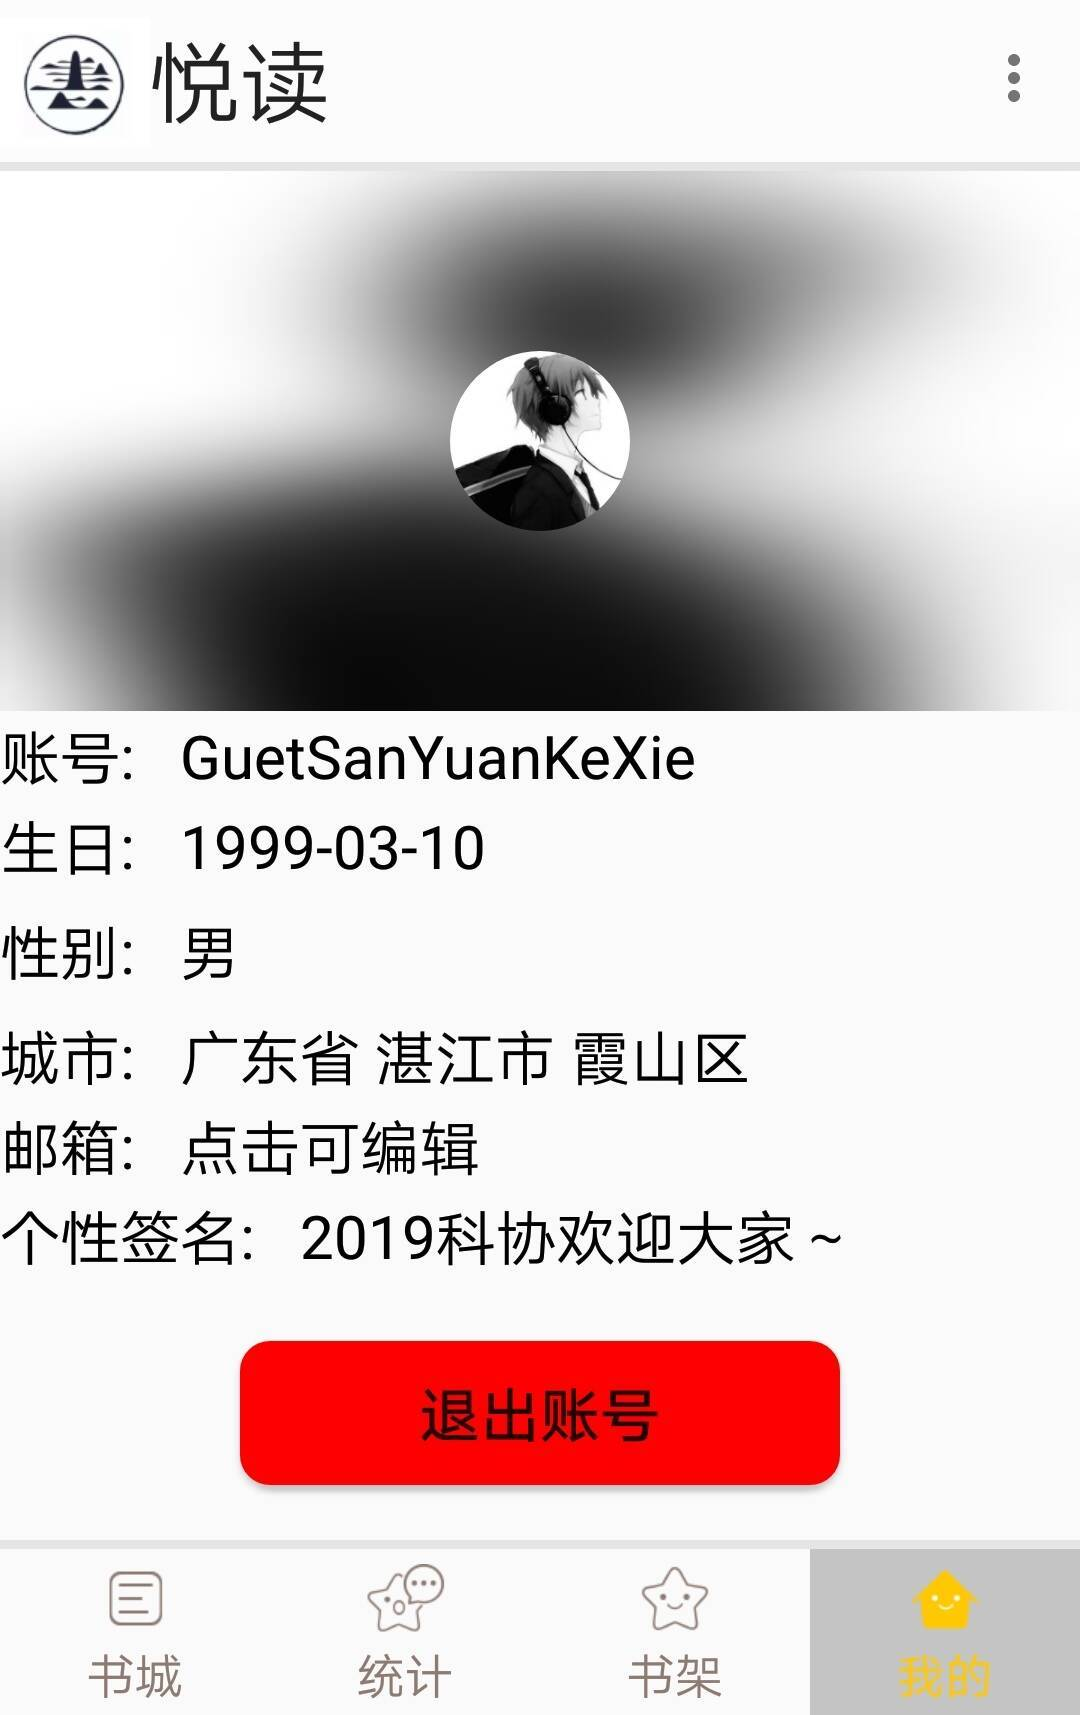
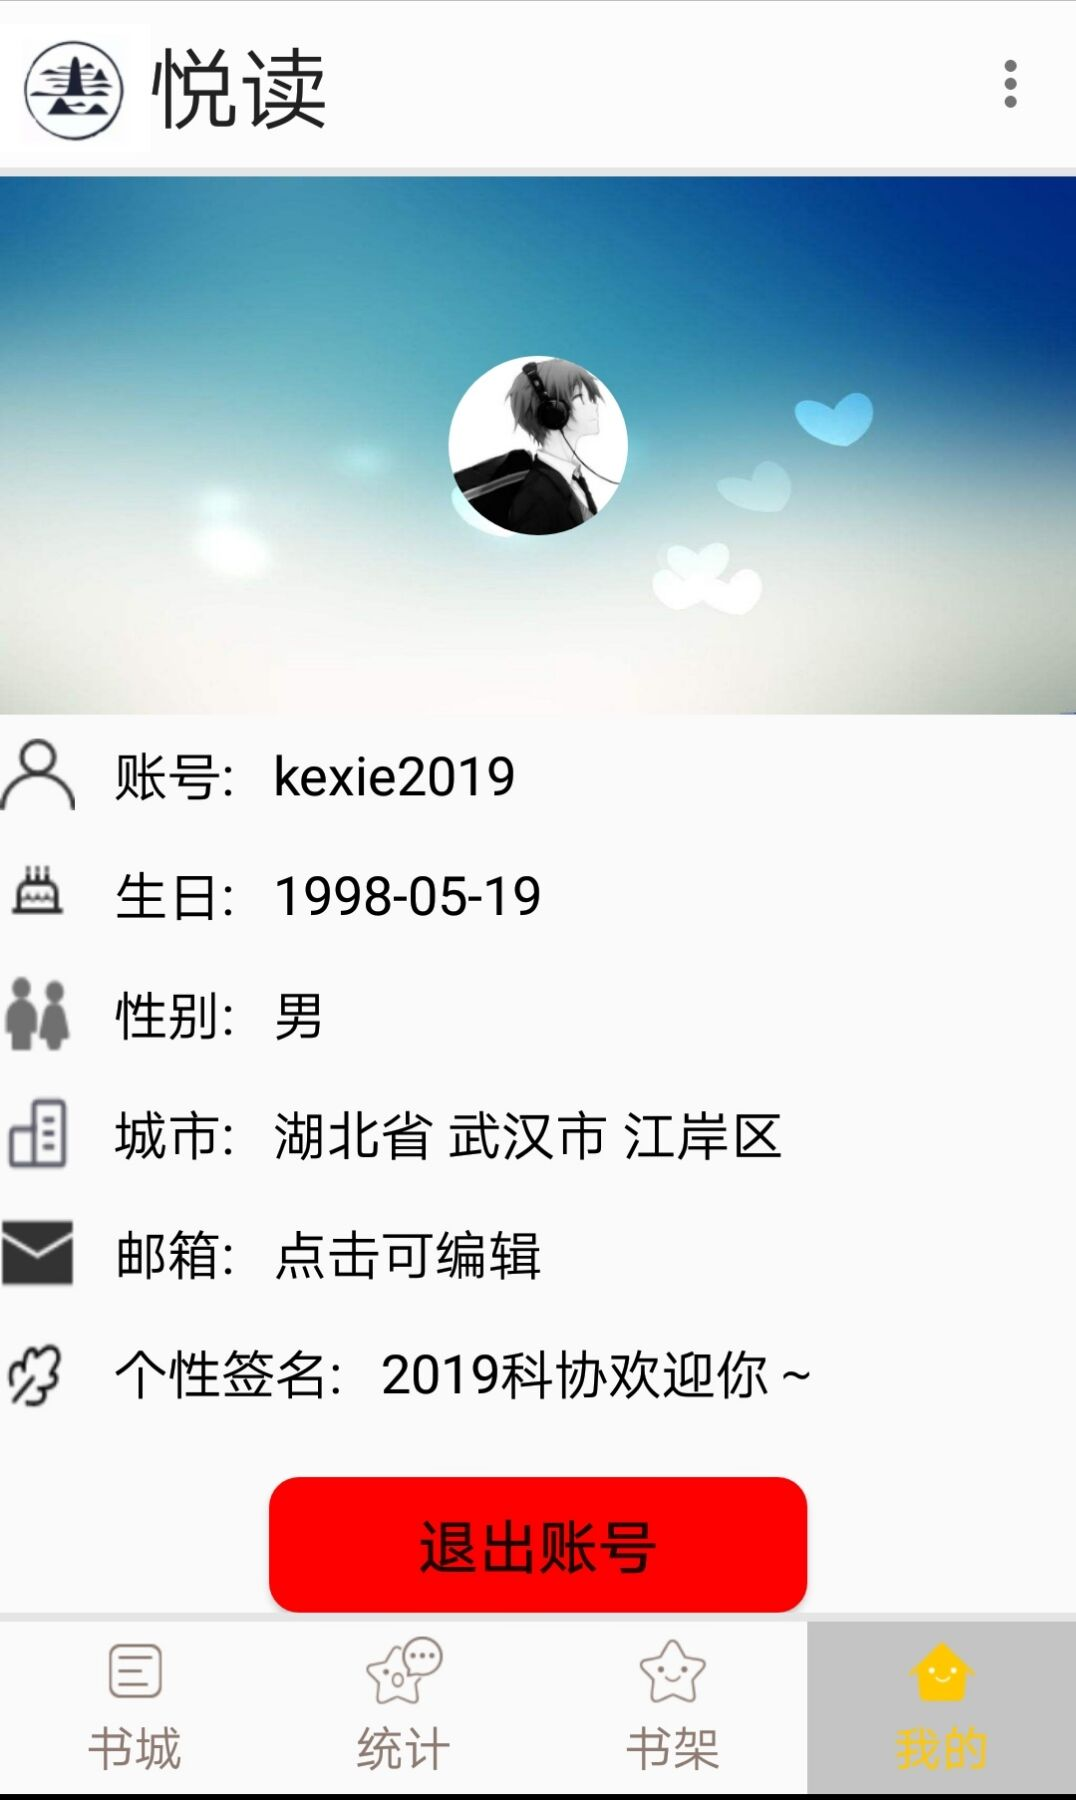
2019.10.7

diff --git a/app/src/main/java/com/example/bottomtabber/Fragment/Home.java b/app/src/main/java/com/example/bottomtabber/Fragment/Home.java
@@ -1,6 +1,7 @@
 package com.example.bottomtabber.Fragment;
 
 import android.content.Intent;
+import android.net.Uri;
 import android.os.Bundle;
 import android.support.annotation.NonNull;
 import android.support.v4.app.Fragment;
@@ -37,6 +38,7 @@ import org.json.JSONException;
 import org.json.JSONObject;
 import org.litepal.LitePal;
 
+import java.io.File;
 import java.text.SimpleDateFormat;
 import java.util.ArrayList;
 import java.util.Date;
@@ -99,11 +101,11 @@ public class Home extends Fragment implements View.OnClickListener {
         line6.setOnClickListener(this);
         exit.setOnClickListener(this);
         avatarImageView.setOnClickListener(this);
+        blurImageView.setOnClickListener(this);
     }
     private void initUIData(){
         Glide.with(this)
-                .load(R.mipmap.boy)
-                .apply(RequestOptions.bitmapTransform(new BlurTransformation(13,3)))
+                .load(R.mipmap.picture)
                 .into(blurImageView);
 
         Glide.with(this)
@@ -127,21 +129,15 @@ public class Home extends Fragment implements View.OnClickListener {
         }
     }
 
-    private void photoAndCamera() {
+    private void photoAndCamera1() {
         PictureSelector
                 .create(Home.this, PictureSelector.SELECT_REQUEST_CODE)
                 .selectPicture(true, 200, 200, 1, 1);
     }
-
-    private void initData(String string){
-        Glide.with(this)
-                .load(string)
-                .apply(RequestOptions.bitmapTransform(new BlurTransformation(13,3)))
-                .into(blurImageView);
-
-        Glide.with(this)
-                .load(string)
-                .into(avatarImageView);
+    private void photoAndCamera2() {
+        PictureSelector
+                .create(Home.this, PictureSelector.SELECT_REQUEST_CODE*2)
+                .selectPicture(true, 200, 100, 1, 1);
     }
 
     private void quitCache(){
@@ -160,7 +156,16 @@ public class Home extends Fragment implements View.OnClickListener {
             if (data != null) {
                 String picturePath = data.getStringExtra(PictureSelector.PICTURE_PATH);
                 quitCache();
-                initData(picturePath);
+                Glide.with(this)
+                        .load(picturePath)
+                        .into(avatarImageView);
+            }
+        }
+        else if(requestCode == PictureSelector.SELECT_REQUEST_CODE*2){
+            if (data != null) {
+                String picturePath = data.getStringExtra(PictureSelector.PICTURE_PATH);
+                quitCache();
+                blurImageView.setImageURI(Uri.fromFile(new File(picturePath)));
             }
         }
     }
@@ -170,7 +175,10 @@ public class Home extends Fragment implements View.OnClickListener {
     public void onClick(View v) {
         switch (v.getId()){
             case R.id.iv_avatar:
-                photoAndCamera();
+                photoAndCamera1();
+                break;
+            case R.id.iv_blur:
+                photoAndCamera2();
                 break;
             case R.id.bt_exit:
                 if(getActivity()!=null){

diff --git a/app/src/main/java/com/example/bottomtabber/Activity/Login.java b/app/src/main/java/com/example/bottomtabber/Activity/Login.java
@@ -14,6 +14,7 @@ import android.text.InputType;
 import android.text.TextWatcher;
 import android.util.Log;
 import android.view.View;
+import android.view.WindowManager;
 import android.widget.Button;
 import android.widget.CheckBox;
 import android.widget.CompoundButton;
@@ -26,6 +27,8 @@ import com.example.bottomtabber.R;
 
 import org.litepal.LitePal;
 
+import java.io.File;
+import java.util.ArrayList;
 import java.util.List;
 
 public class Login extends AppCompatActivity implements View.OnClickListener, CompoundButton.OnCheckedChangeListener {
@@ -41,6 +44,7 @@ public class Login extends AppCompatActivity implements View.OnClickListener, Co
     private SharedPreferences sharedPreferences=null;
     private boolean misChecked = false;
     public static User loginUser;
+    //public static ArrayList<File> putBooks = null;
 
     @Override
     protected void onCreate(Bundle savedInstanceState) {
@@ -48,6 +52,7 @@ public class Login extends AppCompatActivity implements View.OnClickListener, Co
         LitePal.initialize(this);
         setContentView(R.layout.activity_login);
         getSupportActionBar().hide();
+        getWindow().setFlags(WindowManager.LayoutParams.FLAG_FULLSCREEN, WindowManager.LayoutParams.FLAG_FULLSCREEN);
         getPermission();
         initUI();
         initData();

diff --git a/app/src/main/java/com/example/bottomtabber/Activity/Main.java b/app/src/main/java/com/example/bottomtabber/Activity/Main.java
@@ -12,6 +12,7 @@ import android.util.Log;
 import android.view.Menu;
 import android.view.MenuItem;
 import android.view.View;
+import android.view.WindowManager;
 import android.widget.TextView;
 
 import com.afollestad.materialdialogs.MaterialDialog;
@@ -49,7 +50,7 @@ public class Main extends AppCompatActivity implements View.OnClickListener, Vie
     public void onCreate(Bundle savedInstanceState) {
         super.onCreate(savedInstanceState);
         setContentView(R.layout.activity_main);
-
+        getWindow().setFlags(WindowManager.LayoutParams.FLAG_FULLSCREEN, WindowManager.LayoutParams.FLAG_FULLSCREEN);
         SharedPreferences sp1 = getSharedPreferences("BOOK_LIST", Activity.MODE_PRIVATE);
         String listJson = sp1.getString("KEY_BOOK_DATA","");
         if(!listJson.equals("")){

diff --git a/app/src/main/java/com/example/bottomtabber/Util/FileUtil.java b/app/src/main/java/com/example/bottomtabber/Util/FileUtil.java
@@ -19,7 +19,7 @@ public class FileUtil {
             return null;
         }
         File[] subFiles = f.listFiles();
-        if(files.size()>50){
+        if(files.size()>35){
             return files;
         }
         if(subFiles == null){
@@ -138,7 +138,6 @@ public class FileUtil {
                 String line = sc.nextLine();
                 content= content+line+"\n";
                 i++;
-                Log.d("lkh",i+"次数");
             }
             content = content.replaceAll("\\n","\n");
             if(sc.ioException() != null) {

diff --git a/app/src/main/java/com/example/bottomtabber/Activity/ShowBookInternet.java b/app/src/main/java/com/example/bottomtabber/Activity/ShowBookInternet.java
@@ -35,7 +35,7 @@ public class ShowBookInternet extends AppCompatActivity {
         textView1.setText(getIntent().getStringExtra("chapter"));
         progressDialog = new ProgressDialog(this);
         progressDialog.setTitle("内容正在全力加载中");
-        progressDialog.setMessage("客观请稍等一下下~~");
+        progressDialog.setMessage("客官请稍等一下下~~");
         progressDialog.setCancelable(true);
         progressDialog.setCanceledOnTouchOutside(false);
         progressDialog.show();

diff --git a/app/src/main/java/com/example/bottomtabber/Activity/ShowBookChapter.java b/app/src/main/java/com/example/bottomtabber/Activity/ShowBookChapter.java
@@ -47,7 +47,7 @@ public class ShowBookChapter extends AppCompatActivity {
         tempBook=book;
         progressDialog = new ProgressDialog(this);
         progressDialog.setTitle("目录正在全力加载中");
-        progressDialog.setMessage("客观请稍等一下下~~");
+        progressDialog.setMessage("客官请稍等一下下~~");
         progressDialog.setCancelable(true);
         progressDialog.setCanceledOnTouchOutside(false);
         progressDialog.show();
